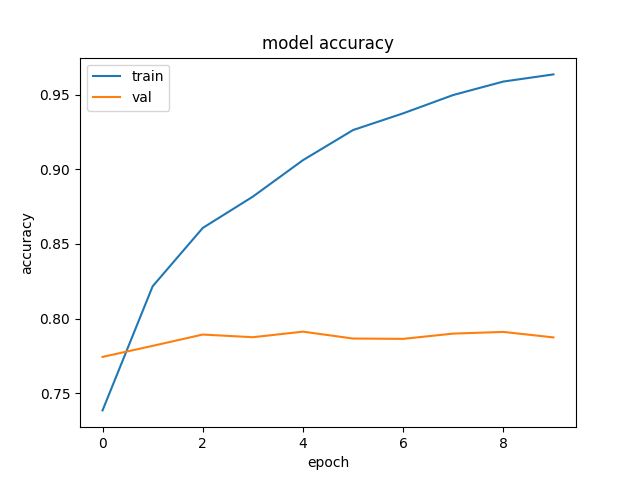
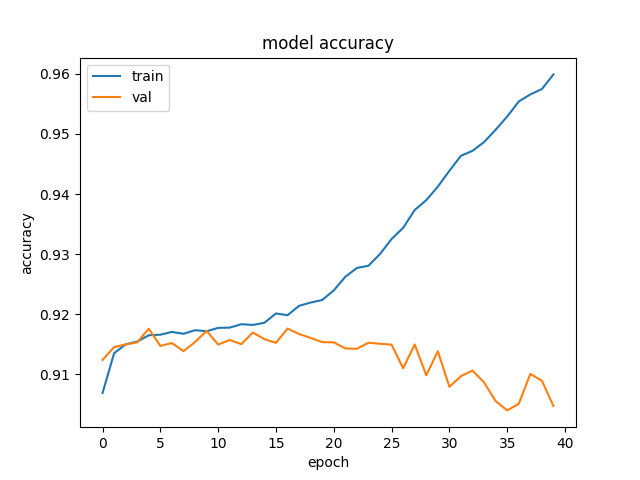
Add files via upload
Improve Results

diff --git a/MaxSAT_Deep_Learning/hess_model_trainer.py b/MaxSAT_Deep_Learning/hess_model_trainer.py
@@ -27,6 +27,7 @@ import numpy as np
 import tensorflow as tf
 from matplotlib import pyplot as plt
 
+
 def oracle(sat, cnf):
     loc = len(cnf)
     for cls in cnf:
@@ -68,7 +69,7 @@ def generate_random_cnf_file(num_variables, num_clauses):
     for _ in range(num_clauses):
         cls = []
         # Randomly choose the number of literals in a cls (1-3).
-        while len(cls) < 3:
+        while len(cls) < np.random.randint(2, num_variables):
             var = np.random.randint(1, num_variables)  # Random var index
             if np.random.choice([True, False]):  # Randomly negate the var
                 var = -var
@@ -78,10 +79,10 @@ def generate_random_cnf_file(num_variables, num_clauses):
     return cnf
 
 
-def algorithm_learning(limit_size, input_data, output_data, test_input_data, test_output_data):
+def algorithm_learning(n, m, input_data, output_data, test_input_data, test_output_data):
     # TODO: Put a decent model here...
     preprocessing_layers = [
-        tf.keras.layers.InputLayer(input_shape=(limit_size, limit_size, 1))
+        tf.keras.layers.InputLayer(input_shape=(n, m, 1)),
     ]
 
     def conv_2d_pooling_layers(filters, number_colour_layers):
@@ -104,7 +105,7 @@ def algorithm_learning(limit_size, input_data, output_data, test_input_data, tes
     dense_layers = [
         tf.keras.layers.Flatten(),
         tf.keras.layers.Dense(128, activation='linear'),
-        tf.keras.layers.Dense(limit_size)
+        tf.keras.layers.Dense(n)
     ]
 
     # Build the CNN model
@@ -114,11 +115,11 @@ def algorithm_learning(limit_size, input_data, output_data, test_input_data, tes
         dense_layers
     )
 
-    checkpoint = tf.keras.callbacks.ModelCheckpoint('./checkpoints/hess_model_{}'.format(limit_size), 
-                                                    monitor="val_binary_accuracy", 
+    checkpoint = tf.keras.callbacks.ModelCheckpoint('./checkpoints/hess_model_{}_{}'.format(n, m),
+                                                    monitor="val_binary_accuracy",
                                                     mode="max",
                                                     save_weights_only=False,
-                                                    save_best_only=True, 
+                                                    save_best_only=True,
                                                     verbose=1)
     callbacks = [checkpoint]
 
@@ -138,7 +139,8 @@ def algorithm_learning(limit_size, input_data, output_data, test_input_data, tes
                         callbacks=callbacks)
 
     # Restore the best model
-    model = tf.keras.models.load_model('./checkpoints/hess_model_{}'.format(limit_size))
+    model = tf.keras.models.load_model(
+        './checkpoints/hess_model_{}_{}'.format(n, m))
 
     print("Evaluate on test data")
     results = model.evaluate(test_input_data, test_output_data)
@@ -163,21 +165,21 @@ def algorithm_learning(limit_size, input_data, output_data, test_input_data, tes
     plt.savefig('loss_hystory.png')
 
 
-def gen_dataset(limit_size, num_samples):
+def gen_dataset(n, m, num_samples):
     input_data, output_data = [], []
 
     while len(output_data) < num_samples:
-        num_variables = np.random.randint(10, limit_size)
-        num_clauses = np.random.randint(10, limit_size)
+        num_variables = np.random.randint(10, n)
+        num_clauses = np.random.randint(10, m)
 
         cnf = generate_random_cnf_file(num_variables, num_clauses)
         opt = hess(num_variables, cnf)
-        cnf_matrix = np.zeros(shape=(limit_size, limit_size))
+        cnf_matrix = np.zeros(shape=(n, m))
         for i, cls in enumerate(cnf):
             for lit in cls:
                 cnf_matrix[abs(lit) - 1][i] = -1 if lit < 0 else 1
 
-        opt += (limit_size - len(opt)) * [0]
+        opt += (n - len(opt)) * [0]
 
         input_data.append(cnf_matrix)
         output_data.append(opt)
@@ -187,14 +189,16 @@ def gen_dataset(limit_size, num_samples):
 
 if __name__ == '__main__':
 
-    limit_size = int(sys.argv[1])
-    num_samples = int(sys.argv[2])
+    context_size = int(sys.argv[1])  # size of context
+    num_samples = int(sys.argv[2])  # number of test samples
+
+    n = context_size  # good results why? number of _variables
+    m = context_size  # good results why? number of clauses
 
     print("Generating data")
-    input_data, output_data = gen_dataset(limit_size, num_samples // 2)
+    input_data, output_data = gen_dataset(n, m, num_samples // 2)
     print("Generating test data")
-    test_input_data, test_output_data = gen_dataset(
-        limit_size, num_samples // 2)
+    test_input_data, test_output_data = gen_dataset(n, m, num_samples // 2)
 
-    algorithm_learning(limit_size, input_data, output_data,
+    algorithm_learning(n, m, input_data, output_data,
                        test_input_data, test_output_data)

diff --git a/MaxSAT_Deep_Learning/hess_model_evaluation.py b/MaxSAT_Deep_Learning/hess_model_evaluation.py
@@ -63,11 +63,11 @@ def hess(num_variables, cnf):
 
 
 if __name__ == '__main__':
-    limit_size = int(sys.argv[2])
+    context_size = int(sys.argv[2])
 
     # Restore the weights
     model = tf.keras.models.load_model(
-        './checkpoints/hess_model_{}'.format(limit_size))
+        './checkpoints/hess_model_{}_{}'.format(context_size, context_size))
 
     n, m, cnf = 0, 0, []
     with open(sys.argv[1], 'r') as cnf_file:
@@ -78,7 +78,7 @@ if __name__ == '__main__':
             else:
                 cnf.append(list(map(int, line.rstrip('\n')[:-2].split(' '))))
 
-    cnf_matrix = np.zeros(shape=(limit_size, limit_size))
+    cnf_matrix = np.zeros(shape=(context_size, context_size))
     for i, cls in enumerate(cnf):
         for lit in cls:
             cnf_matrix[abs(lit) - 1][i] = 0.25 if lit < 0 else 0.75

diff --git a/MaxSAT_Deep_Learning/gen_easy_cnf.py b/MaxSAT_Deep_Learning/gen_easy_cnf.py
@@ -29,7 +29,7 @@ def generate_random_cnf_file(num_variables, num_clauses):
         print('p cnf {} {}'.format(num_variables, num_clauses), file=file)
         for _ in range(num_clauses):
             cls = []
-            while len(cls) < 3:
+            while len(cls) < np.random.randint(2, num_variables):
                 var = np.random.randint(1, num_variables)  # Random var index
                 if np.random.choice([True, False]):  # Randomly negate the var
                     var = -var
